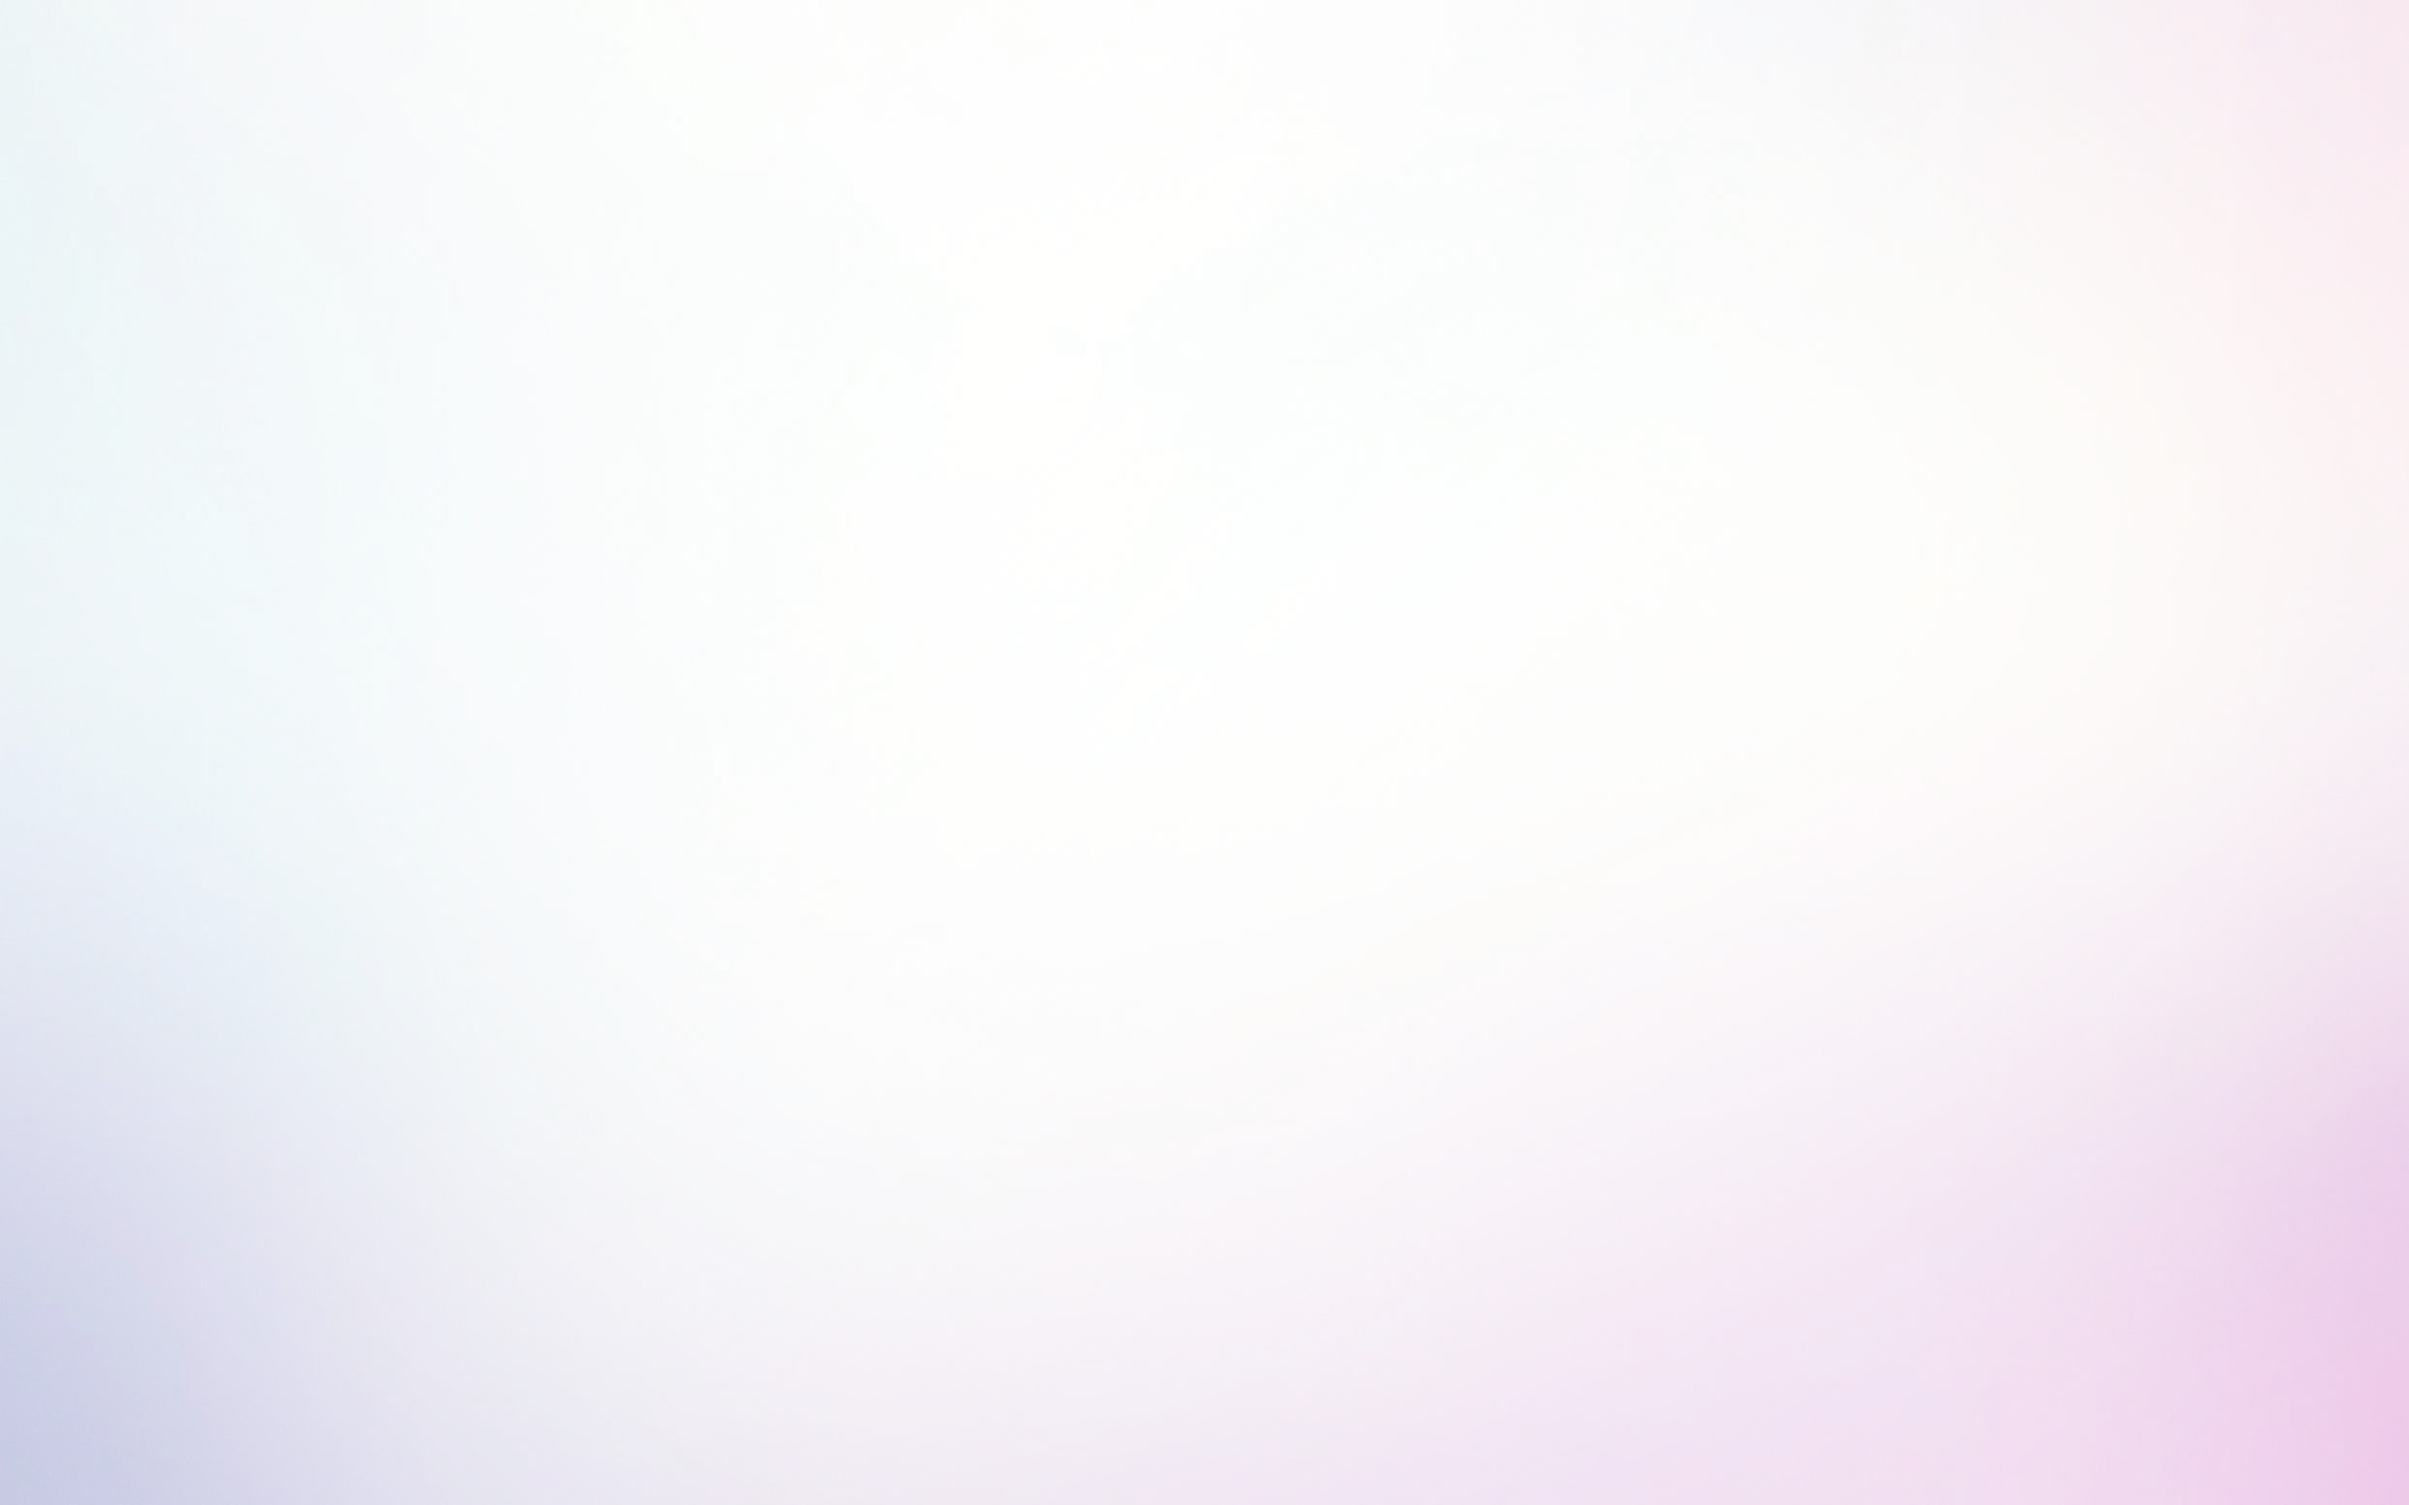
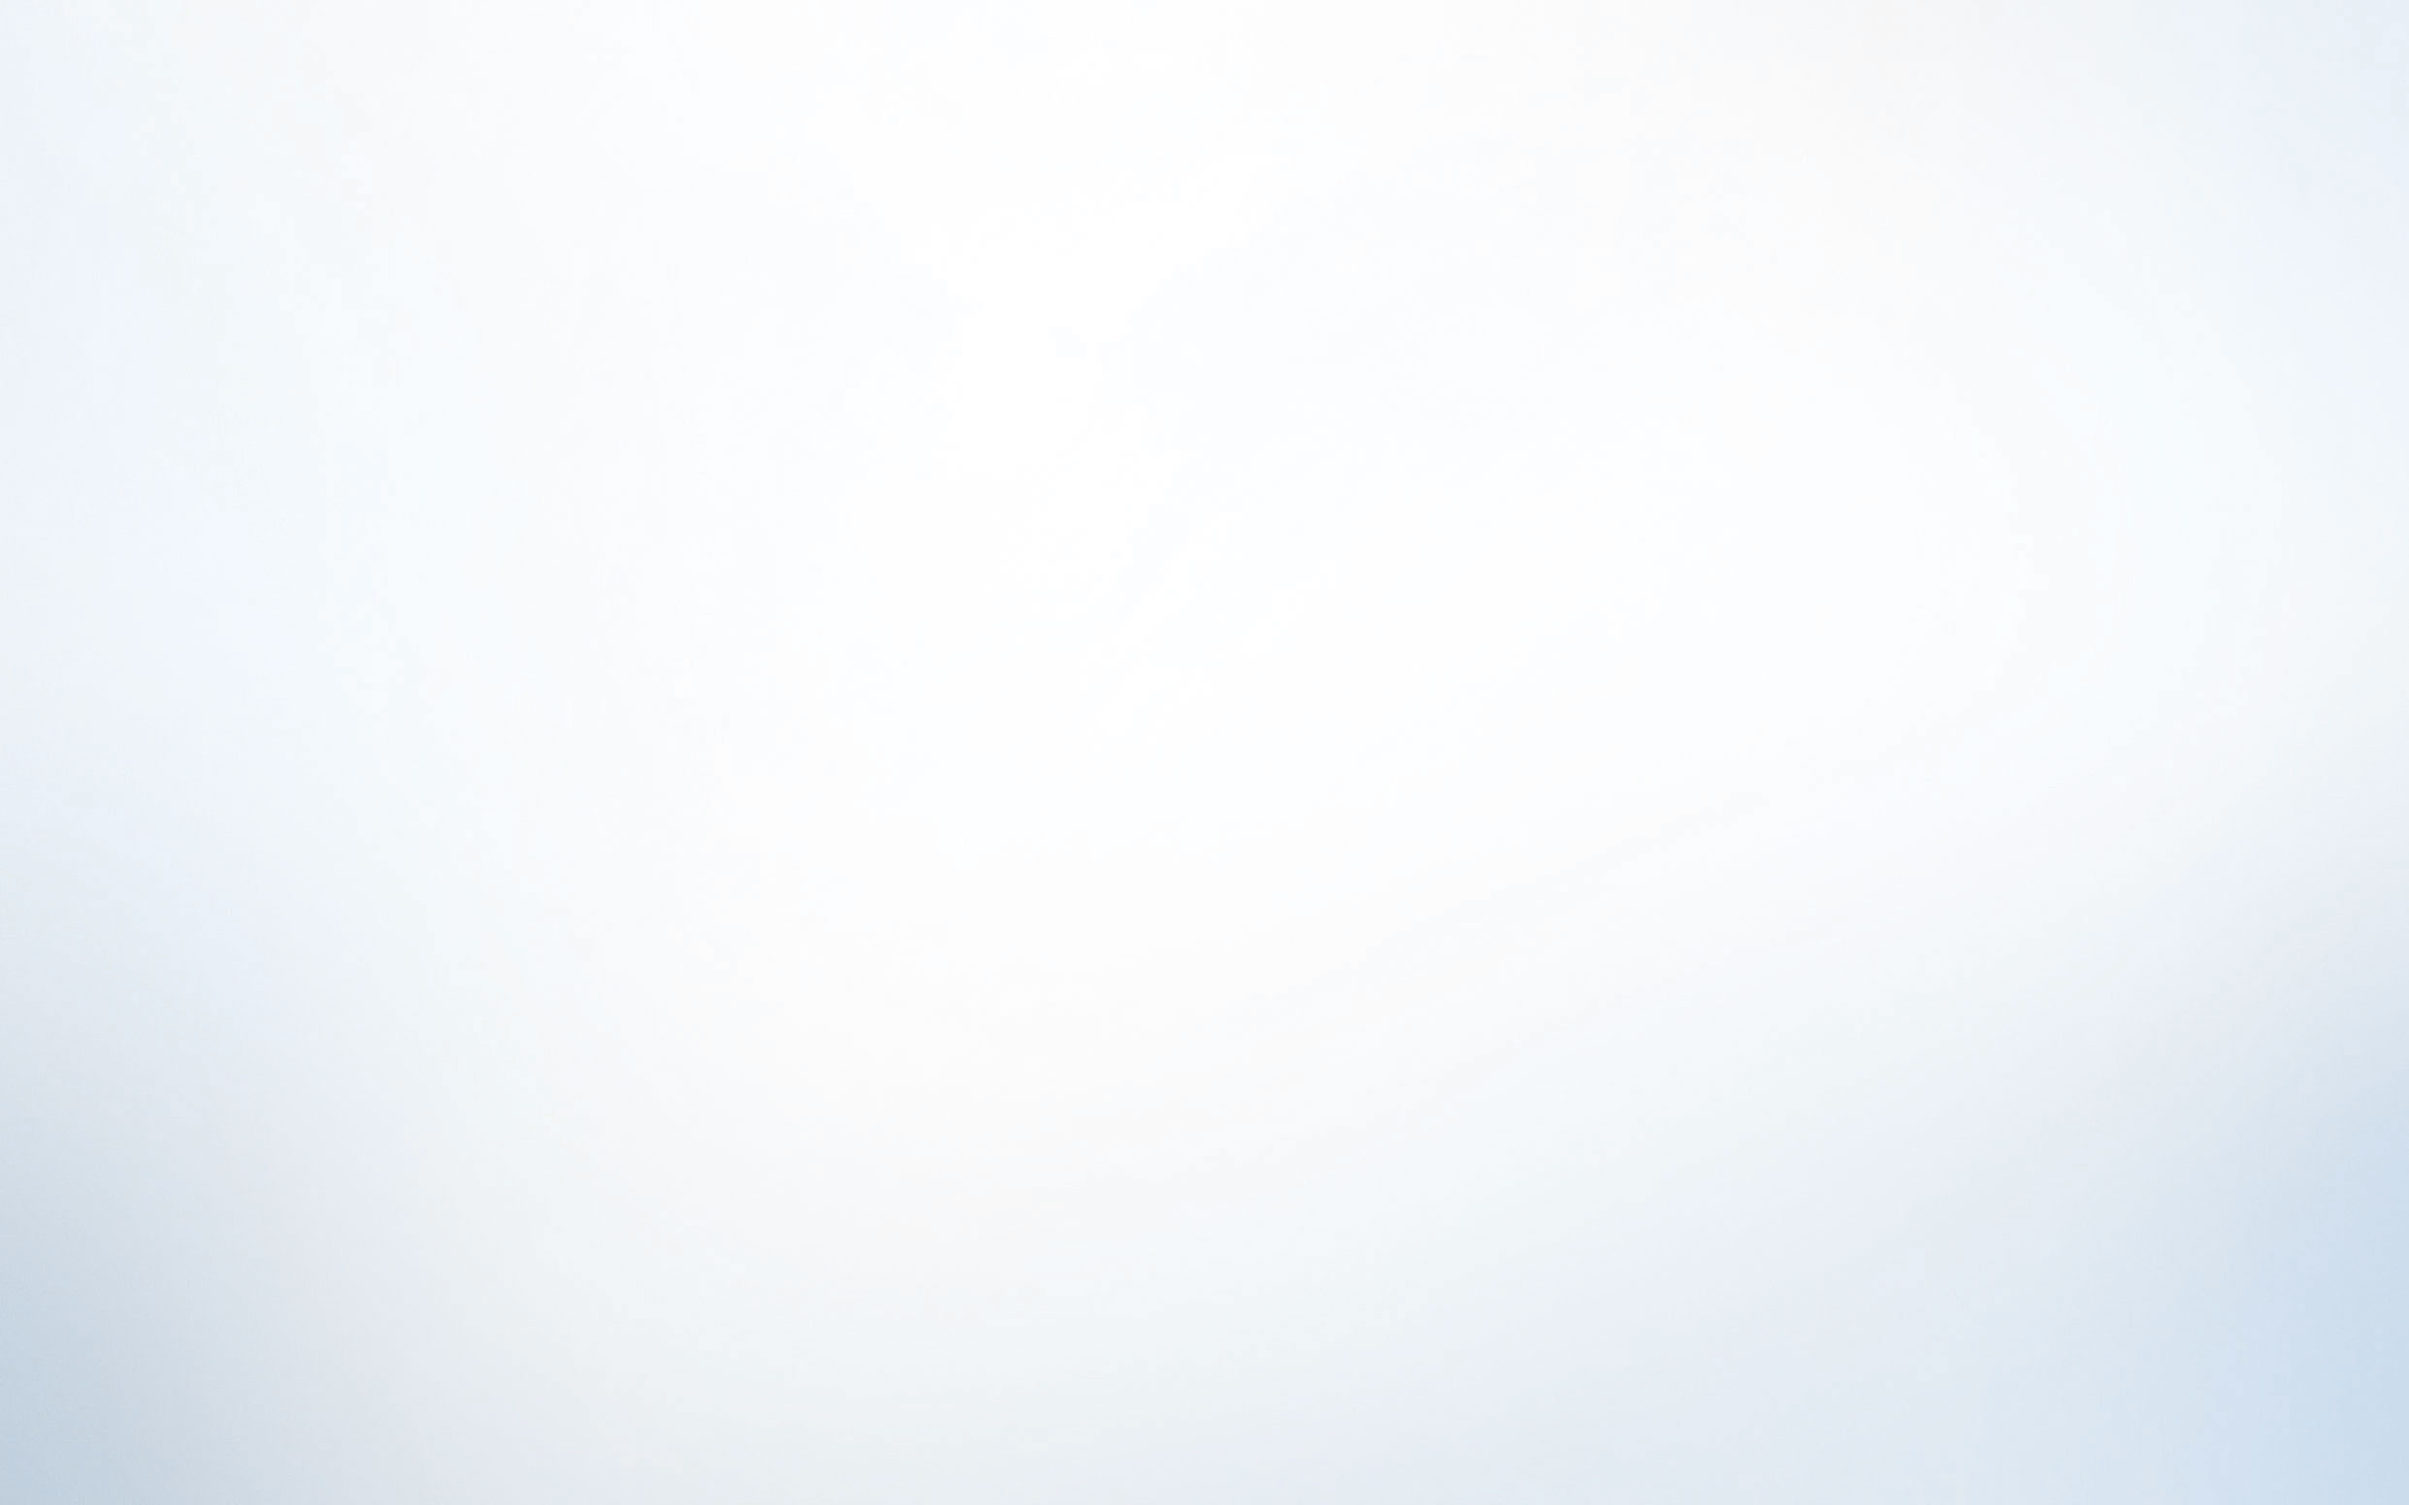
change color schema

Changed region(s): [[0.8683, 0.7113, 1.0, 1.0]]

diff --git a/client/src/components/sidebar/Sidebar.css b/client/src/components/sidebar/Sidebar.css
@@ -2,7 +2,7 @@
     width: 210px;
     position: fixed;
     height: 100%;
-    background: #252339;
+    background: #2144ac;
     transition: width .5s ease-in-out;
     box-shadow: 0 0 15px rgba(109, 104, 192, 0.9);
     z-index: 99;
@@ -16,7 +16,7 @@
 
 .top-section {
     position: relative;
-    background: #2d2a45;
+    background: #1c3c9e;
     width: 100%;
     height: 65px;
     display: flex;
@@ -81,8 +81,8 @@
 .menu .menu__list .menu__item {
     position: relative;
     padding: 5px 0;
-    border-top: 1px solid #1c1c2c;
-    border-bottom: 1px solid #312f4b;
+    border-top: 1px solid #1d3c99;
+    border-bottom: 1px solid #264ec4;
 }
 
 .menu .menu__list .menu__item:first-child {
@@ -95,7 +95,7 @@
 
 .menu .menu__list .menu__item .icon {
     font-size: 25px;
-    color: #7e7d8b;
+    color: #f1f1f4;
     font-family: bold;
     display: inline-block;
     padding: 10px;
@@ -104,11 +104,11 @@
 }
 
 .sidebar.inactive .menu .menu__list .menu__item .icon:hover {
-    background: #302e4b;
+    background: #1e3d9a;
 }
 
 .menu .menu__list .menu__item .menu__link {
-    color: #7e7d8b;
+    color: #fff;
     position: absolute;
     text-decoration: none;
     cursor: pointer;

diff --git a/client/src/components/pages/Devices/devices.css b/client/src/components/pages/Devices/devices.css
@@ -74,9 +74,9 @@
     width: 330px;
     height: fit-content;
     padding: 5px;
-    background: rgb(255, 255, 255);
+    background: rgb(241, 245, 249);
     background: linear-gradient(180deg, rgba(255, 255, 255, 1) 0%, rgba(242, 244, 250, 1) 35%, rgba(242, 244, 250, 1) 100%);
-    box-shadow: 0 5px 5px 0 rgba(196, 190, 221, 0.4), 0 10px 10px 0 rgba(196, 190, 221, .4), 0 20px 20px 0 rgba(196, 190, 221, .4), 0 40px 40px 0 rgba(196, 190, 221, .4), 0 80px 80px 0 rgba(196, 190, 221, .4), 0 160px 160px 0 rgba(196, 190, 221, .4);
+    box-shadow: 0 5px 5px 0 rgba(208, 215, 222, 0.4), 0 10px 10px 0 rgba(208, 215, 222, .4), 0 20px 20px 0 rgba(208, 215, 222, .4), 0 40px 40px 0 rgba(208, 215, 222, .4), 0 80px 80px 0 rgba(208, 215, 222, .4), 0 160px 160px 0 rgba(208, 215, 222, .4);
     position: -webkit-sticky;
     position: sticky;
     z-index: 3;
@@ -124,13 +124,13 @@
 
 .category-menu__item:hover,
 .category-menu__item.active {
-    background-color: #6c6be6;
+    background-color: #3f88f8;
     box-shadow: 0 0 10px 5px rgba(71, 85, 237, 0.3);
     color: #ffffff;
 }
 
 .category-menu__item i {
-    color: #6c6be6;
+    color: #3f88f8;
     font-size: 20px;
     padding-top: 7px;
 }

diff --git a/client/src/styles/App.css b/client/src/styles/App.css
@@ -153,9 +153,9 @@ h6 {
 
 .afterlogin {
     width: 100%;
-    /* background: #e5e7f1; */
-    background-image: url("../assets/portal/bg-in.jpg");
-    background-size: cover;
+    background: #f1f5f9;
+    /* background-image: url("../assets/portal/bg-in.jpg");
+    background-size: cover; */
     display: flex;
 }
 

diff --git a/client/src/components/UI/buttons/buttons.css b/client/src/components/UI/buttons/buttons.css
@@ -20,7 +20,7 @@
     padding: 9px 21px;
     /* background: #524899;
     background: linear-gradient(146deg, rgb(71, 63, 136) 0%, rgb(102, 63, 139) 100%); */
-    background: #43d294;
+    background: #26bea6;
     border-radius: 4px;
     color: #ffffff;
     transition: all .5s;
